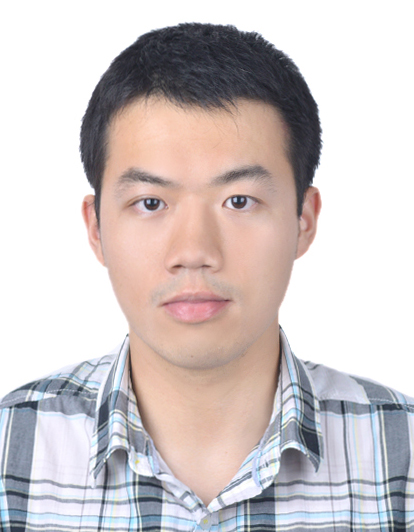
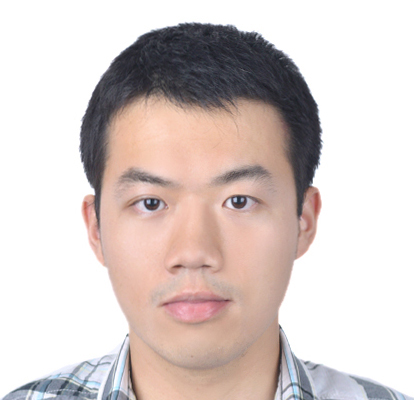
add work

diff --git a/js/resumeBuilder.js b/js/resumeBuilder.js
@@ -7,14 +7,20 @@ var bio = {
 	"name":"Li Jun",
 	"role":"Client Developer",
 	"welcomeMessage":"",
-	"biopic":"images/fry.jpg",
+	"biopic":"images/photo.jpg",
 	"contacts":{
 		"mobile":"56208425",
 		"email":"u3523747@connect.hku.hk",
 		"github":"lj852487887",
 		"location":"Hong Kong"
 	},
-	"skills":["familiar with C++ ","familiar with JavaScript ","familiar with C# "]
+	"skills":[
+		"Full stack web development: Bootstrap, HTML5, Node.js, MongoDB",
+		"Distributed system development in Linux: Hadoop, Elasticsearch, Kibana, Logstash",
+		"Game development: Unity 3d, Web game development",
+		"Program language: JavaScript, C#, C++, Python",
+		"English: TOEFL 90, CET-6 503" 
+	]
 };
 
 var education = {
@@ -48,18 +54,20 @@ var education = {
 var work = {
 	"jobs":[
 		{
-			"employer":"",
-			"title":"",
-			"location":"",
-			"dates":"",
-			"description":""
+			"employer":"SenseTime Co., Ltd.",
+			"url":"http://www.sensetime.com/",
+			"title":"Software Develop Internship",
+			"location":"Hong Kong",
+			"dates":"2016/06 – 2016/09",
+			"description":"SenseTime campus recruitment Website<br>Use Jade template and Bootstrap in client, use Node.js and Express in server, use MongoDB as database.\nDeveloped client pages and server, database functional models.<br>②Virtual Reality Glasses Application<br>Based on SenseTime’s human face recognition API, use Unity to develop a VR application on windows. Deployed in advertise machines.\nDeveloped with C# and C++, use memory share to get the camera data and render it with 3D models in Unity."
 		},
 		{
-			"employer":"",
-			"title":"",
-			"location":"",
-			"dates":"",
-			"description":""
+			"employer":"4399 Network Co., Ltd.",
+			"url":"http://www.4399.com/",
+			"title":"Game Client Develop Engineer",
+			"location":"Xiamen",
+			"dates":"2013/08 - 2015/04",
+			"description":"①Action web game “Dream Brotherhood”<br>Developed additional mini game modules for the web game. Developed a variety of popular mini games independently, including link-link, fruit ninja, candy crash, 2048.\nDeveloped all client UI and functional game modules, and developed several server functional modules with JavaScript in Node.js framework.<br>②Shooting web game “Contra Legion”<br>Developed all client UI and functional modules, and most of server functional modules.\nDesign the protocols between client and sever and developed modules to create different types of bullets.\nUse MVC framework to develop client modules such as Bag module, Role module, Pet module, Dungeon module, PK module and so on. Developed the server functional modules for all the functional modules above."
 		}
 	]
 };
@@ -92,9 +100,22 @@ function addBio () {
 	appendToResume("#header",HTMLwelcomeMsg,bio.welcomeMessage);
 
 	$("#header").append(HTMLskillsStart);
-	appendToResume("#skills", HTMLskills,bio.skills );
+	for(i in bio.skills){
+		appendToResume("#skills", HTMLskills,bio.skills[i] );
+	}
+}
+
+function addWork () {
+	for(i in work.jobs){
+		$("#workExperience").append(HTMLworkStart);
+		var formatedEmployer = HTMLworkEmployer.replace("%data%", work.jobs[i].employer);
+		formatedEmployer = formatedEmployer.replace("#", work.jobs[i].url);
+		var formatedTile = HTMLworkTitle.replace("%data%", work.jobs[i].title);
+		$(".work-entry:last").append(formatedEmployer+formatedTile);
+		appendToResume(".work-entry:last", HTMLworkDates,work.jobs[i].dates );
+		appendToResume(".work-entry:last", HTMLworkDescription,work.jobs[i].description );
+	}
 }
 
 addBio();
-
-
+addWork();
